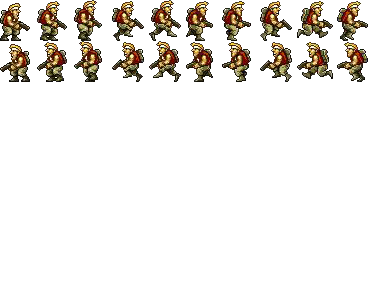
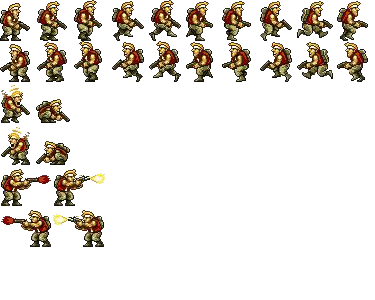
Add files via upload

Changed region(s): [[0.0, 0.27, 0.2933, 0.69], [0.0, 0.69, 0.2933, 0.84]]

diff --git a/game.js b/game.js
@@ -7,6 +7,7 @@ var PLAYER_SPEED = 2;
 var bullets = [];
 var gameObjects = [];
 var enemies = [];
+var gameOver = false;
 
 function startGame() {
     scene.start();
@@ -56,14 +57,14 @@ function drawFloor(){
 
 function drawPlayer() {
     this.gamearea = scene;
-	this.lives = 3;
+	this.lives = 30;
     this.width = 74;
     this.height = 82;
     this.speedX = 0;
-    //this.speedY = 0;    
     this.x = 100;
-	//this.fireRate = 30;
 	this.allowShot = true;
+	this.crouch = false;
+	this.crouchTime = 0;
     this.y = scene.canvas.height - 100 - this.height;    
 	this.direction = 0;
 	this.timeMoving = 0;
@@ -73,17 +74,22 @@ function drawPlayer() {
 	this.jumpSpeed = 3;
 	this.allowJump = true;
 	this.traveledDistance = 0;
+	
     this.update = function() {
         ctx = scene.context;
 		if(this.timeMoving > 45){
 			this.timeMoving = 5;
 		}
-		var sourceX = Math.round(this.timeMoving / 5) * (this.width / 2);
+		var sourceX;
 		var sourceY = this.direction * (this.height / 2);
+		if(this.crouch){
+			sourceY += this.height;
+			sourceX = this.crouchTime < 3 ? 0 : this.width / 2;
+		}
+		else {
+			sourceX = Math.round(this.timeMoving / 5) * (this.width / 2);
+		}
 		ctx.drawImage(playerImg, sourceX, sourceY, this.width / 2, this.height / 2, this.x, this.y, this.width, this.height);
-		/*if(this.lastShot < this.fireRate){
-			this.lastShot++;
-		}*/
     }
     this.newPos = function() {
 		var allowMove = true;
@@ -179,6 +185,10 @@ function drawPlayer() {
 }
 
 function update() {
+	if(gameOver){
+		gameOverText();
+		return;
+	}
     scene.clear();
 	drawFloor();
 	drawGameObjects();
@@ -202,7 +212,14 @@ function update() {
 		//player.speedY = -PLAYER_SPEED 
 	}
     if (scene.keys && scene.keys[40]) {
-		//cucanj
+		player.crouch = true;
+		if(player.crouchTime  < 3){
+			player.crouchTime++;
+		}
+	}
+	else {
+			player.crouch = false;
+			player.crouchTime = 0;
 	}
 	if (scene.keys && scene.keys[83] && player.allowJump == true) {
 		player.allowJump = false;
@@ -211,10 +228,7 @@ function update() {
 	if(scene.keys && scene.keys[65] == true && player.allowShot == true){
 		player.allowShot = false;
 		var bulletDirection = player.direction == 0 ? 1 : -1;
-		bullets.push(new createBullet(bulletDirection, player.x + (bulletDirection == 1 ? 60 : 0), player.y + 40, 10));
-		//createBullet();
-		//player.lastShot = 0;
-		//scene.keys[65] = false;
+		bullets.push(new createBullet(bulletDirection, player.x + (bulletDirection == 1 ? 60 : 0), player.y + 40, 10, -1, -1));
 	}
     player.newPos();    
     player.update();
@@ -226,7 +240,34 @@ function update() {
 function moveBullets(){
 	for(var i = bullets.length - 1; i >= 0; i--) {
 		var bullet = bullets[i];
-        bullet.x += bullet.speed * bullet.direction;
+        
+		if(bullet.verticalDirection != 0){
+			if(bullet.destY != bullet.y && bullet.destX < bullet.x){
+				if(bullet.pixelsToChangeY <= 0){
+					var h = 0;
+					if(bullet.destY > bullet.y){
+						h = bullet.destY - bullet.y;
+					}
+					else{
+						h = bullet.y - bullet.destY;
+					}
+					bullet.pixelsToChangeY = Math.floor((bullet.x - bullet.destX) / h);
+					bullet.pixelsToChangeYLastValue = bullet.pixelsToChangeY;
+					bullet.y += bullet.speed * bullet.verticalDirection;
+				}
+				bullet.pixelsToChangeY--;
+			}
+			else{
+				if(bullet.pixelsToChangeY <= 0){
+					bullet.pixelsToChangeY = bullet.pixelsToChangeYLastValue;
+					bullet.y += bullet.speed * bullet.verticalDirection;
+				}
+				bullet.pixelsToChangeY--;
+			}
+		}
+		
+		bullet.x += bullet.direction * bullet.speed;
+		
         bullet.update();
 		if(bullet.x < 0 || bullet.x > scene.canvas.width){
 			bullets.splice(i,1);
@@ -260,14 +301,16 @@ function moveBullets(){
 			}
 			var playerRightX = player.x + player.width - 25;
 			var playerLeftX = player.x + 20;
-			if(player.y + 10 < bullet.y + bullet.width && player.y + player.height > bullet.y){
+			var playerTopY = player.y + 10;
+			if(player.crouch){
+				playerTopY = player.y + player.height / 2;
+			}
+			if(playerTopY < bullet.y + bullet.width && player.y + player.height > bullet.y){
 				if(playerLeftX < bullet.x + bullet.width && bullet.direction == 1 && playerRightX > bullet.x + bullet.width){
-					player.lives--;
-					bullets.splice(i,1);
+					playerHit(i);
 					break;
 				}else if(playerRightX > bullet.x && playerLeftX < bullet.x && bullet.direction == -1){
-					player.lives--;
-					bullets.splice(i,1);
+					playerHit(i);
 					break;
 				}
 			}
@@ -275,9 +318,20 @@ function moveBullets(){
     }
 }
 
+function playerHit(i){
+	player.lives--;
+	bullets.splice(i,1);
+	if(player.lives == 0){
+		gameOver = true;
+	}
+}
+
 function scrollScene(){
 	for(var i = 0 ; i < gameObjects.length; i++) {
 		gameObjects[i].x -= player.speedX;
+	}
+	for(var i = 0 ; i < bullets.length; i++) {
+		bullets[i].x -= player.speedX;
 	}
 	for(var i = 0 ; i < enemies.length; i++) {
 		if(enemies[i].startTime <= player.traveledDistance){
@@ -308,14 +362,33 @@ function drawEnemies(){
 			
 			ctx.drawImage(enemyImg, sourceX, sourceY, enemy.imageWidth / 2, enemy.imageHeight / 2 - 1, enemy.currentX, enemy.y, enemy.imageWidth, enemy.imageHeight);
 			if(enemy.timeShooting == 25){
-				bullets.push(new createBullet(enemy.direction, enemy.currentX + 50, enemy.y + 40, 3));
+				bullets.push(new createBullet(enemy.direction, enemy.currentX + 50, enemy.y + 40, 3, player.x, player.y + 22));
 			}
 			else if(enemy.timeShooting > 80){
 				enemy.timeShooting = 0;
-			}	
+			}
 			
-			if(enemy.direction == -1 && enemy.currentX > enemy.finalX){
+			var enemyRightX = enemy.currentX + enemy.imageWidth;
+			var enemyLeftX = enemyRightX - enemy.width - 10;
+			var noObsticle = true;
+			for(var j = 0 ; j < gameObjects.length; j++) {
+				var go = gameObjects[j];
+				if(go.y < enemy.y + enemy.imageHeight && go.y + go.height > enemy.y){
+					/*if(go.x < enemy.x + enemy.width - 20 && enemy.direction == 0 && go.x + go.width > enemy.x + enemy.width - 20){
+						noObsticle = false;
+						break;
+					}else */if(go.x + go.width > enemyLeftX && go.x < enemyLeftX && enemy.direction == -1){
+						noObsticle = false;
+						break;
+					}
+				}
+			}
+			
+			if(enemy.direction == -1 && enemy.currentX > enemy.finalX && noObsticle){
 				enemy.currentX -= enemy.speed;
+			}
+			if(!noObsticle){
+				enemy.finalX = enemy.currentX;
 			}
 			if(enemy.currentX <= enemy.finalX){
 				enemy.timeShooting++;
@@ -329,12 +402,25 @@ function jump(){
 	player.y -= player.jumpSpeed;
 }
 
-function createBullet(direction, x, y, speed){
+function createBullet(direction, x, y, speed, destX, destY){
 	this.direction = direction;
+	if(destY == -1 || y == destY){
+		this.verticalDirection = 0;
+	}
+	else if(y > destY){
+		this.verticalDirection = -1;
+	}
+	else if(y < destY){
+		this.verticalDirection = 1;
+	}
 	this.x = x;
 	this.y = y;
 	this.width = 5;
 	this.speed = speed;
+	this.destX = destX;
+	this.destY = destY;
+	this.pixelsToChangeY = 0;
+	this.pixelsToChangeYLastValue = 0;
 	
 	this.update = function() {
         ctx = scene.context;
@@ -347,8 +433,15 @@ function createBullet(direction, x, y, speed){
 
 function drawUI(){
 	ctx = scene.context;
-	ctx.fillStyle = "red";
 	ctx.font = "30px Arial";
 	ctx.fillStyle = "blue";
 	ctx.fillText("Lives: " + player.lives, 0, 30);
+}
+
+function gameOverText(){
+	ctx = scene.context;
+	ctx.fillStyle = "red";
+	ctx.font = "40px Arial";
+	ctx.textAlign = "center";
+	ctx.fillText("GAME OVER :(", scene.canvas.width / 2, scene.canvas.height / 2); 
 }
